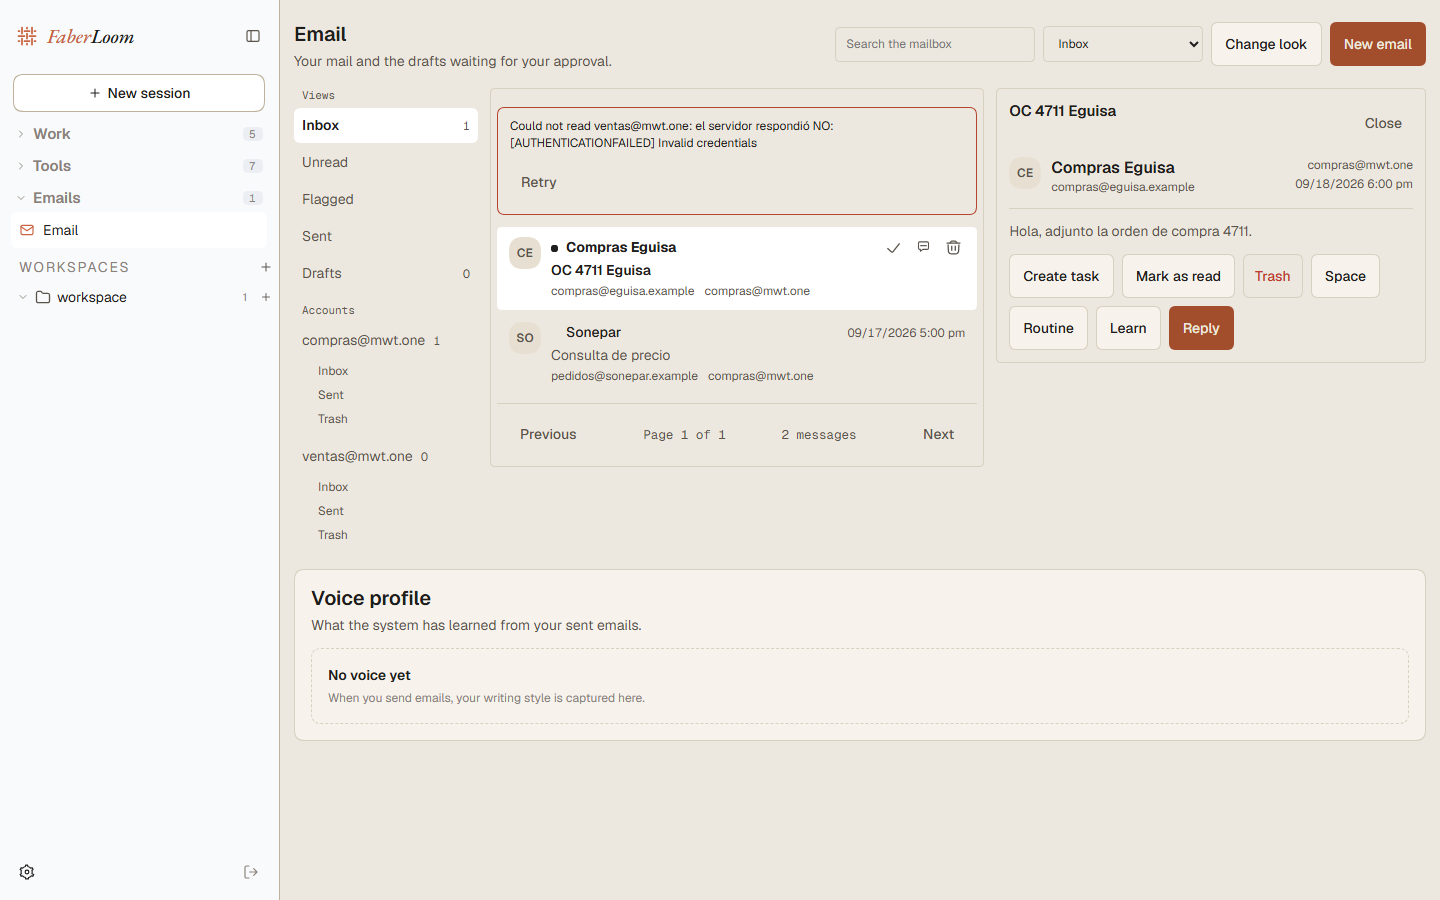
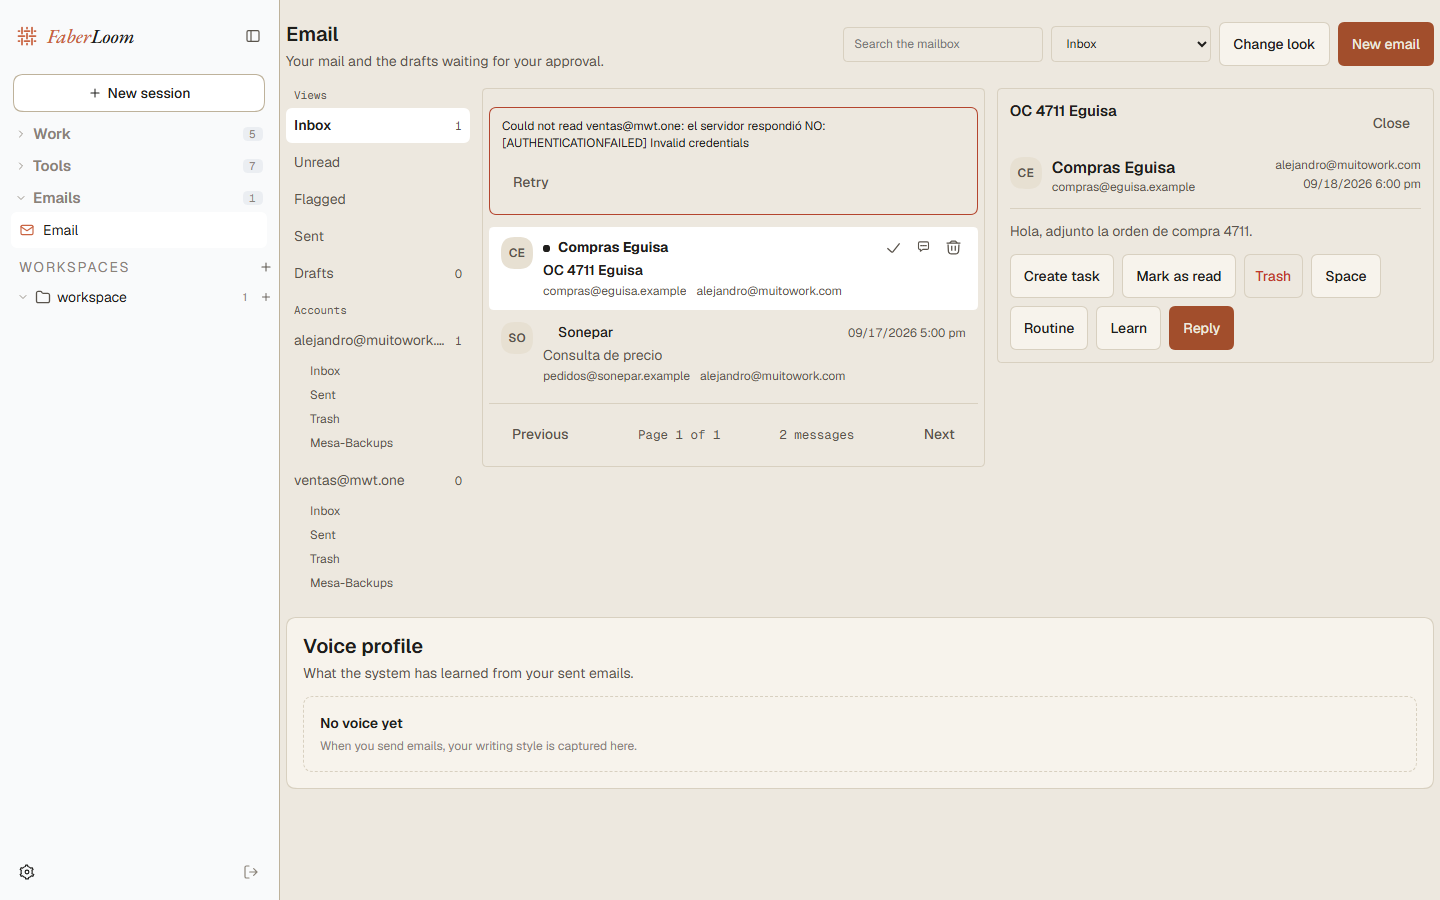
fix(faberloom): keep the account count inside the rail and drop the INBOX prefix

diff --git a/apps/web/tests/email-panel.e2e.ts b/apps/web/tests/email-panel.e2e.ts
@@ -86,6 +86,7 @@ const inbound = {
     { name: 'INBOX', specialUse: 'inbox' as const },
     { name: 'Sent', specialUse: 'sent' as const },
     { name: 'Trash', specialUse: 'trash' as const },
+    { name: 'INBOX.Mesa-Backups', specialUse: null },
   ],
   listInbox: async (_owner: string, _limit: number, connectionId?: string) => {
     if (connectionId !== undefined && connectionId === failingConnection) {
@@ -120,7 +121,7 @@ describe('web e2e: Email panel and task entries', () => {
     }).faberloomConnections
     await connections.save(ACTOR.id, {
       kind: 'imap', label: 'Compras', host: 'imap.compras.test', port: 993, secure: true,
-      username: 'compras@mwt.one', secret: 'sintetico-a', primary: true,
+      username: 'alejandro@muitowork.com', secret: 'sintetico-a', primary: true,
     })
     const ventas = await connections.save(ACTOR.id, {
       kind: 'imap', label: 'Ventas', host: 'imap.ventas.test', port: 993, secure: true,
@@ -198,7 +199,7 @@ describe('web e2e: Email panel and task entries', () => {
     await reader.getByRole('heading', { name: SUBJECT }).waitFor()
     // One account answered and the other failed: both facts are on screen.
     await page.getByText(/Could not read ventas@mwt\.one/u).waitFor()
-    expect(await page.getByRole('button', { name: /compras@mwt\.one/u }).count()).toBeGreaterThan(0)
+    expect(await page.getByRole('button', { name: /alejandro@muitowork\.com/u }).count()).toBeGreaterThan(0)
     // One unread row, one read: the dot is the list's, not a decoration.
     const dots = await page.locator('[class*="mailListDot"]:not([class*="Spacer"])').count()
     expect(dots).toBe(1)
@@ -370,6 +371,16 @@ describe('web e2e: Email panel and task entries', () => {
     try {
       await page.setViewportSize({ width: 1440, height: 900 })
       await openMail()
+      // The rail owns the account context: an `INBOX.` folder prefix is noise.
+      await page.getByText('Mesa-Backups', { exact: true }).first().waitFor()
+      expect(await page.getByText('INBOX.Mesa-Backups', { exact: true }).count()).toBe(0)
+      // The long account address truncates, but its count stays inside the row.
+      const railOverflow = await page.evaluate(() => (
+        [...document.querySelectorAll('[class*="emailRailRow"], [class*="emailRailActive"]')]
+          .filter(element => element.scrollWidth > element.clientWidth + 1)
+          .map(element => element.textContent ?? '')
+      ))
+      expect(railOverflow).toEqual([])
       const next = page.getByRole('button', { name: /next attachment|adjunto siguiente/iu })
       await next.waitFor()
       const asideBox = await page.locator('aside[aria-label="Email"]').boundingBox()

diff --git a/packages/client/ui-faberloom/src/client/panels.tsx b/packages/client/ui-faberloom/src/client/panels.tsx
@@ -1870,6 +1870,13 @@ function emailScreen() {
       const unread = rowsInView.filter(row => !row.seen).length
       return String(unread > 0 ? unread : rowsInView.length)
     }
+    // Servers under INBOX name their folders `INBOX.Trash`; the rail already
+    // sits under the account, so the prefix is noise. The real name still
+    // travels to IMAP when the folder is selected.
+    const folderLabel = (name: string): string => {
+      const stripped = name.replace(/^INBOX[./]/iu, '')
+      return stripped.length === 0 ? name : stripped
+    }
     const chooseView = (next: 'all' | 'unread' | 'flagged'): void => {
       setMode('inbox'); setAccountFilter(null); setFolder(null); setCriterion(next); setPage(1); setSelected(null); setComposing(false)
     }
@@ -2302,7 +2309,7 @@ function emailScreen() {
                                 ? styles.emailRailFolderActive
                                 : styles.emailRailFolder}
                               onClick={() => { chooseFolder(account, entry.name) }}>
-                              {entry.specialUse === 'inbox' ? t('email.inbox') : entry.name}
+                              {entry.specialUse === 'inbox' ? t('email.inbox') : folderLabel(entry.name)}
                             </button>
                           ))}
                         </div>

diff --git a/packages/client/ui-faberloom/src/client/faberloom.module.css b/packages/client/ui-faberloom/src/client/faberloom.module.css
@@ -46,7 +46,7 @@
 /* Mail brings its own rail, so the outer margin only needs to separate it from
    the shell sidebar; the standard screen padding left a wide dead gap. */
 .screenDense {
-  padding-inline: clamp(8px, 1.2vw, 14px);
+  padding-inline: 6px;
 }
 
 /* The panel scrolls; its sections keep their natural height. Without this the
@@ -512,6 +512,8 @@
   align-items: baseline;
   justify-content: space-between;
   gap: 8px;
+  box-sizing: border-box;
+  width: 100%;
   min-width: 0;
   padding: 7px 8px;
   border: 0;
